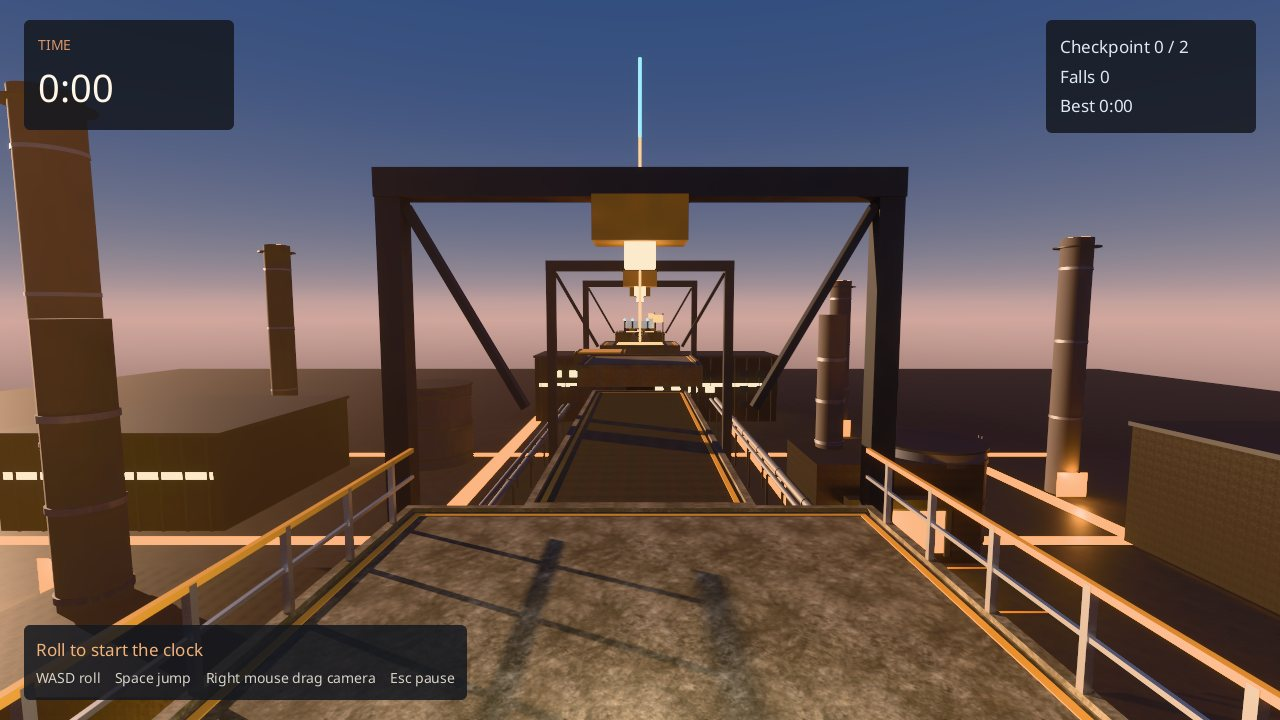
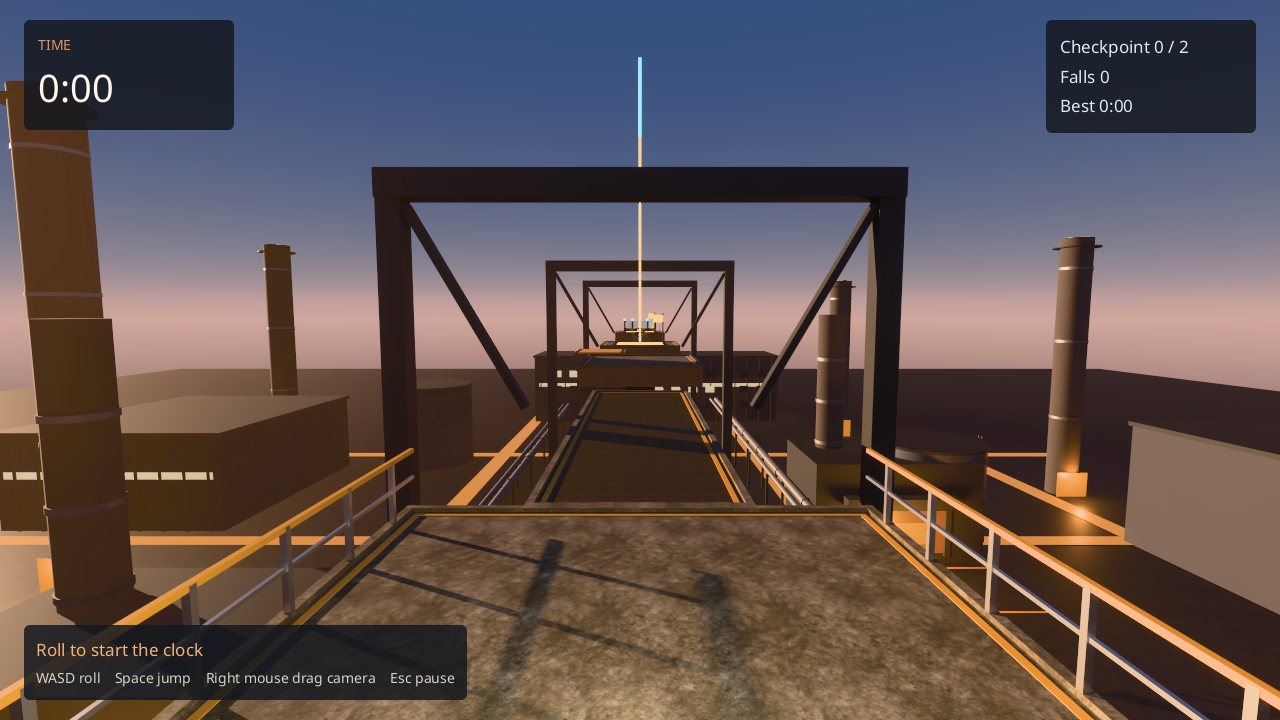
Glint colour 3/3: the ball and the first shot
An opaque two-tone contact shadow under the ball moved by a script (BallShadow; alpha does not
blend on Renderlab), furnace and shed surfaces that no longer mirror the sky, the gantry trolley
box that filled the mid-course frame removed. README light table updated; four more gaps.
Replay: 1947 ticks.

diff --git a/crates/ara-samples/src/build/glint/kits.rs b/crates/ara-samples/src/build/glint/kits.rs
@@ -286,6 +286,19 @@ fn pipe(kit: &mut Kit, material: usize, radius: f32, start: Vec3, along: u32, le
     kit.cylinder(material, radius, length, 20, Mat4::from_translation(start) * rotation, Vec2::ONE);
 }
 
+/// The ball's contact shadow: two stacked opaque discs, unit diameter, lying flat on their own
+/// origin, a pale penumbra under a dark core. (Alpha blend, tried first, drew solid black on
+/// Renderlab.) `BallShadow` moves and scales it.
+pub fn blob(root: &Path, lock: &Lock) -> Result<String> {
+    let mut k = Kit::new(vec![
+        Material::flat("shadow penumbra", [0.2, 0.17, 0.14], 0.95, 0.0),
+        Material::flat("shadow core", [0.075, 0.065, 0.055], 0.95, 0.0),
+    ]);
+    k.cylinder(0, 0.5, 0.004, 40, Mat4::IDENTITY, Vec2::ONE);
+    k.cylinder(1, 0.3, 0.004, 40, Mat4::from_translation(Vec3::new(0.0, 0.006, 0.0)), Vec2::ONE);
+    k.write(root, lock, "glint_blob")
+}
+
 /// The foundry yard far below the course: textured ground, route markings, slag channels,
 /// furnaces, chimneys and tanks with banding, gantry frames, pipe racks, plate stacks, sheds
 /// and a glazed control tower. Pure scenery, no collision.
@@ -303,20 +316,22 @@ pub fn yard(root: &Path, lock: &Lock) -> Result<String> {
     const STEEL: usize = 10;
     const PLATES: usize = 11;
     const DARKWIN: usize = 12;
+    const EMBER: usize = 13;
     let mut k = Kit::new(vec![
         Material::textured("yard concrete", "concrete_floor_02").tinted([0.075, 0.08, 0.095]),
         Material::flat("sooty brick", [0.1, 0.09, 0.09], 0.92, 0.0),
         Material::flat("tank steel", [0.16, 0.18, 0.22], 0.6, 0.45),
         Material::emitter("slag", [1.0, 0.38, 0.08]),
-        Material::textured("shed cladding", "metal_plate").tinted([0.1, 0.11, 0.14]),
+        Material::flat("shed paint", [0.07, 0.075, 0.095], 0.78, 0.1),
         Material::glass("control glass", [0.6, 0.8, 0.9], 0.3),
         Material::emitter("window light", [1.0, 0.82, 0.55]),
         Material::flat("pipe steel", [0.34, 0.35, 0.37], 0.5, 0.8),
         Material::flat("amber paint", [0.85, 0.42, 0.08], 0.5, 0.0),
         Material::flat("road marking", [0.7, 0.66, 0.55], 0.85, 0.0),
-        Material::flat("black girder steel", [0.06, 0.065, 0.07], 0.55, 1.0),
+        Material::flat("black girder steel", [0.06, 0.065, 0.07], 0.7, 0.6),
         Material::textured("stacked plate", "metal_plate").tinted([0.2, 0.22, 0.26]),
         Material::flat("dark window", [0.015, 0.025, 0.045], 0.12, 0.2),
+        Material::emitter("ember", [0.55, 0.14, 0.04]),
     ]);
     let v = Vec3::new;
     let floor = YARD_FLOOR;
@@ -338,8 +353,9 @@ pub fn yard(root: &Path, lock: &Lock) -> Result<String> {
     }
     // Furnaces: a dark block, a framed glowing mouth, a hood, a stack, amber hazard borders.
     for (x, z) in FURNACES {
-        slab_box(&mut k, SHED, v(x - 9.0, floor, z - 6.0), v(x + 9.0, floor + 11.0, z + 6.0), plate_m);
-        slab_box(&mut k, SLAG, v(x - 5.0, floor + 1.2, z - 6.05), v(x + 5.0, floor + 6.0, z - 6.0), Vec2::ONE);
+        slab_box(&mut k, STEEL, v(x - 9.0, floor, z - 6.0), v(x + 9.0, floor + 11.0, z + 6.0), Vec2::ONE);
+        slab_box(&mut k, EMBER, v(x - 5.0, floor + 1.2, z - 6.05), v(x + 5.0, floor + 6.0, z - 6.0), Vec2::ONE);
+        slab_box(&mut k, SLAG, v(x - 3.0, floor + 2.2, z - 6.12), v(x + 3.0, floor + 4.6, z - 6.05), Vec2::ONE);
         for (a, b) in [
             (v(x - 5.6, floor + 0.9, z - 6.3), v(x - 5.0, floor + 6.6, z - 5.9)),
             (v(x + 5.0, floor + 0.9, z - 6.3), v(x + 5.6, floor + 6.6, z - 5.9)),
@@ -347,7 +363,7 @@ pub fn yard(root: &Path, lock: &Lock) -> Result<String> {
         ] {
             slab_box(&mut k, STEEL, a, b, Vec2::ONE);
         }
-        slab_box(&mut k, SHED, v(x - 6.0, floor + 6.6, z - 7.4), v(x + 6.0, floor + 7.6, z - 5.8), plate_m);
+        slab_box(&mut k, STEEL, v(x - 6.0, floor + 6.6, z - 7.4), v(x + 6.0, floor + 7.6, z - 5.8), Vec2::ONE);
         k.cylinder(BRICK, 1.6, 16.0, 24, Mat4::from_translation(v(x + 5.0, floor + 11.0, z + 2.0)), Vec2::ONE);
         for band in [0.0, 5.0, 10.0] {
             k.cylinder(PIPE, 1.7, 0.4, 24, Mat4::from_translation(v(x + 5.0, floor + 11.5 + band, z + 2.0)), Vec2::ONE);
@@ -402,8 +418,6 @@ pub fn yard(root: &Path, lock: &Lock) -> Result<String> {
             }
         }
         slab_box(&mut k, STEEL, v(-8.4, top, z - 0.5), v(8.4, top + 0.9, z + 0.5), Vec2::ONE);
-        slab_box(&mut k, AMBER, v(-1.5, top - 1.4, z - 0.9), v(1.5, top, z + 0.9), Vec2::ONE);
-        slab_box(&mut k, WINDOW, v(-0.5, top - 2.2, z - 0.5), v(0.5, top - 1.4, z + 0.5), Vec2::ONE);
     }
     // Pipe racks: two long runs along the route on frames, one run across the yard.
     for (x, h) in [(-18.0, 6.0), (18.0, 4.5)] {

diff --git a/crates/ara-samples/src/build/glint/mod.rs b/crates/ara-samples/src/build/glint/mod.rs
@@ -65,6 +65,7 @@ fn models(ctx: &Ctx) -> Result<Models> {
         ("glint_pad", kits::pad(root, lock)?),
         ("glint_goal", kits::goal(root, lock)?),
         ("glint_yard", kits::yard(root, lock)?),
+        ("glint_blob", kits::blob(root, lock)?),
     ] {
         ctx.model(&mut models, name, &path, &format!("as_kit{}", short(name)))?;
     }
@@ -129,7 +130,7 @@ fn art(s: &mut Scene) {
         Prop::new("e_yard", "Foundry yard", "glint_yard", Vec3::ZERO, 0.0)
             .at_origin()
             .decor()
-            .renderer(json!({"emissive": [6000, 6000, 6000]})),
+            .renderer(json!({"emissive": [1800, 1800, 1800]})),
     );
     // Steam and sparks: engine-side extras (they do not export).
     for (i, (x, z, _, h)) in CHIMNEYS.iter().enumerate() {
@@ -233,6 +234,17 @@ fn game(ctx: &Ctx) -> Result<()> {
         }),
     );
     s.commands.push(ball_glow("e_ball"));
+    // The contact shadow: a black film disc moved by BallShadow (colour alpha on a primitive
+    // does not blend on Renderlab, so it is a glTF kit with a blended material).
+    s.entity(
+        "e_shadow",
+        "Ball contact shadow",
+        json!({
+            "Transform": {"position": [0, 0.02, -2.0], "scale": [1.5, 1, 1.5]},
+            "MeshRenderer": models.get("glint_blob").renderer,
+            "BallShadow": {},
+        }),
+    );
     // An establishing shot for previews; a higher priority number keeps the follow camera active.
     s.entity(
         "e_camwide",

diff --git a/samples/glint/content/scripts/Glint/BallShadow.cs b/samples/glint/content/scripts/Glint/BallShadow.cs
@@ -1,0 +1,32 @@
+namespace Glint;
+
+/// <summary>
+/// A soft dark disc kept on the deck under the ball: a cheap contact shadow. It follows the
+/// ball's position, sits on the surface below it and shrinks as the ball rises. Presentation
+/// only: nothing reads it back, and it has no collider.
+/// </summary>
+public sealed partial class BallShadow : Behaviour
+{
+    /// <summary>Diameter in metres when the ball rests on the deck.</summary>
+    [Property, Default(1.5f)] public partial float Spread { get; set; }
+    /// <summary>Height above the deck, in metres, at which the disc has shrunk to half size.</summary>
+    [Property, Default(2.5f)] public partial float Falloff { get; set; }
+
+    /// <inheritdoc/>
+    protected override void OnTick(in Tick tick)
+    {
+        var ball = World.Find("Ball");
+        if (ball.IsNull) return;
+        var position = World.Read<Transform>(ball).Position;
+        ref var transform = ref Get<Transform>();
+        if (!Course.FloorBelow(position, out var top))
+        {
+            transform.Scale = Vector3.Zero;
+            return;
+        }
+        var height = MathF.Max(0f, position.Y - 0.5f - top);
+        var size = Spread / (1f + height / Falloff);
+        transform.Position = new Vector3(position.X, top + 0.02f, position.Z);
+        transform.Scale = new Vector3(size, 1f, size);
+    }
+}

diff --git a/samples/glint/content/scripts/Glint/Course.cs b/samples/glint/content/scripts/Glint/Course.cs
@@ -45,6 +45,25 @@ public static class Course
         return mover.Travel * (MathF.Cos(phase * omega) * omega / tick.Dt);
     }
 
+    /// <summary>The top of the highest <see cref="Surface"/> at or below a point, if any lies under it.</summary>
+    public static bool FloorBelow(Vector3 position, out float top)
+    {
+        Span<Entity> buffer = stackalloc Entity[64];
+        var found = false;
+        top = 0;
+        foreach (var entity in World.Query<Surface>(buffer))
+        {
+            var centre = World.Read<Transform>(entity).Position;
+            var half = World.Read<Surface>(entity).Half;
+            var surface = centre.Y + half.Y;
+            if (surface > position.Y + 0.05f || (found && surface <= top)) continue;
+            if (MathF.Abs(position.X - centre.X) > half.X || MathF.Abs(position.Z - centre.Z) > half.Z) continue;
+            top = surface;
+            found = true;
+        }
+        return found;
+    }
+
     /// <summary>Places a physics body at a point and stops it.</summary>
     public static void Teleport(Entity entity, Vector3 point)
     {

diff --git a/samples/glint/FINDINGS.md b/samples/glint/FINDINGS.md
@@ -82,3 +82,19 @@ No engine code was changed. Items marked *from reading* were not confirmed by ru
     interact so that the ball sat 75 to 90 percent of the way down the frame for the first
     three settings tried; (distance 5.5, height 1.4, pitch 20) puts it at about 65 percent.
     Found by capturing each setting; the schema docs do not say where the ball lands.
+15. **Colour alpha does not blend on Renderlab, on primitives or on a glass kit.** A `MeshRenderer`
+    box or sphere with `color` alpha 0.3 drew opaque black, and so did a glTF disc with a
+    `Material::glass` (alpha blend, opacity 0.09 to 0.24; the same kind of material is fine in
+    Atelier's window glass, where something is seen through it). The ball's contact shadow is
+    therefore two opaque discs, a pale penumbra under a dark core, moved by a script.
+16. **Textured metal sheet mirrors the sky.** A shed clad in `metal_plate` (the ARM map makes it
+    fully metallic) reflected the pink horizon as one flat peach wall. Flat non-metal paint
+    fixed it; the surprise is that the `Material::textured` factors stay at metallic 1.
+17. **The look costs render time.** The grey box rendered at 33.8 ms GPU (720p, M5, loaded); the
+    dressed dusk yard is 65 ms at the start view, 77 ms mid-course and 88 ms at the goal, with
+    the same simulation cost. About twenty local lights with shadows, a yard of a few thousand
+    triangles, GI and a few hundred draws; `External.Pass.Shading` is 55 to 70 ms of it.
+18. **The project cook cache is large on a small disk.** `samples/glint/.ara/cache/intermediates`
+    holds about 0.9 GB after a few dozen kit rebuilds (Atelier 0.4 GB) and is rewritten when the
+    cache is cleared, which matters on a machine held to a 30 GB free-space floor. The cache is
+    safe to delete and cooks again on the next capture.

diff --git a/samples/glint/README.md b/samples/glint/README.md
@@ -33,8 +33,8 @@ raking across the route, a dark sky and yard, and warm local lights.
 | | |
 |---|---|
 | Exposure | fixed **EV100 11.0**, Khronos PBR Neutral, no bloom or grading |
-| Sun | 25,000 lux on a surface facing it, colour (1.0, 0.7, 0.48), light travels (-0.85, -0.22, -0.47): about 13 degrees above the horizon, from the right and ahead |
-| Sky | gradient numbers: zenith (0.03, 0.06, 0.2), horizon (0.8, 0.4, 0.2), glow (0.7, 0.2, 0.05), 1,200 cd/m2 scale; a very thin warm height fog (density 0.0001) |
+| Sun | 25,000 lux on a surface facing it, colour (1.0, 0.64, 0.4), light travels (-0.88, -0.19, -0.43): about 11 degrees above the horizon, from the right and ahead, so rails and gantry beams throw long shadows across the deck |
+| Sky | two temperatures: a cool zenith (0.1, 0.17, 0.38), a neutral horizon (0.55, 0.52, 0.56), a narrow warm glow (0.55, 0.17, 0.05), 1,600 cd/m2 scale; a very thin cool height fog (density 0.0001) |
 | Furnace mouths (2) | point, 15,000,000 lm, radius 2 m, range 90 m, at the mouths of the furnaces beside the route |
 | Furnace feet (4) | point, 6,000,000 lm, radius 1.6 m, range 90 m, at the chimneys' bases |
 | Checkpoint lights (2) | point, 150,000 lm, radius 0.3 m, range 18 m, amber, 2.4 m above each pad |
